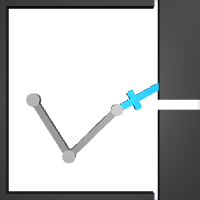
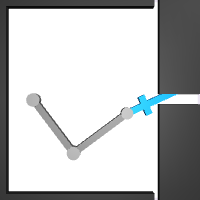
add spread

Changed region(s): [[0.15, 0.39, 1.0, 0.84]]

diff --git a/README.md b/README.md
@@ -37,7 +37,6 @@ This is a maze navigation environment with a wall in the middle, separating the 
 
 #### Peg Insertion (2D)
 
-![./figures/Peg2DImgDiscrete-v0.png](./figures/Peg2DFreeImgDiscreteIdLess-v0.png)
 
 use '"a"' key to get access to the raw action.
 
@@ -46,6 +45,10 @@ use '"a"' key to get access to the raw action.
 | "human"    | ![](./figures/Peg2DFreeImgDiscreteIdLess-v0.png) | ![](./figures/Peg2DImgDiscreteIdLess-v0.png) |
 | "img"      | ![](./figures/Peg2DFreeImgDiscreteIdLess-v0_img.png) | ![](./figures/Peg2DImgDiscreteIdLess-v0_img.png) |
 | "goal_img" | ![](./figures/Peg2DFreeImgDiscreteIdLess-v0_goal_img.png) | ![](./figures/Peg2DImgDiscreteIdLess-v0_goal_img.png) |
+
+The initial state is distributed as such:
+
+![./figures/Peg2DImgDiscrete-v0_spread.png](./figures/Peg2DFreeImgDiscreteIdLess-v0_spread.png)
 
 ---
 
